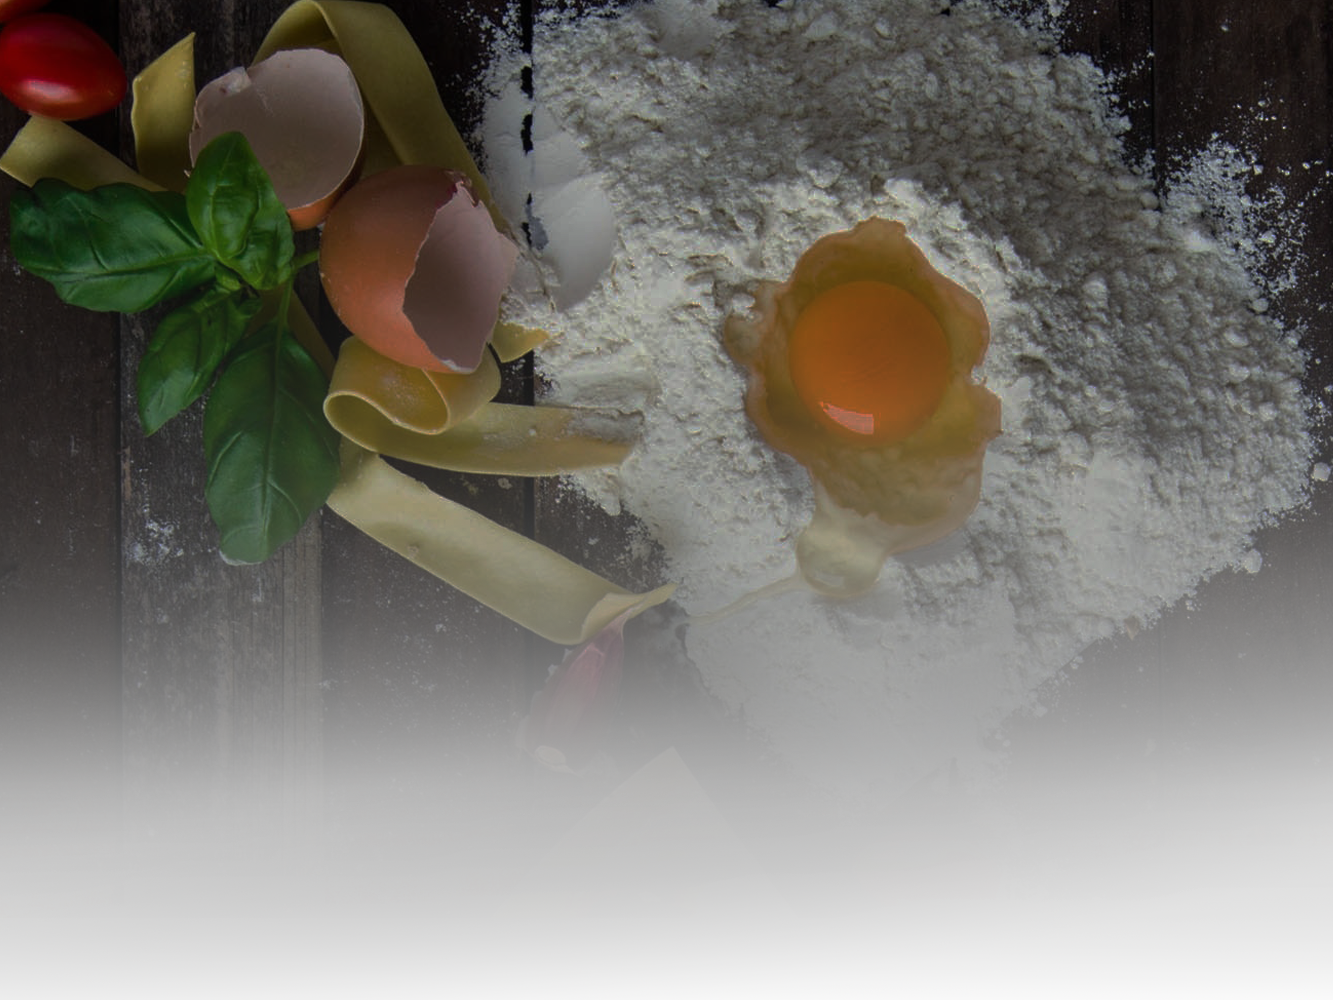
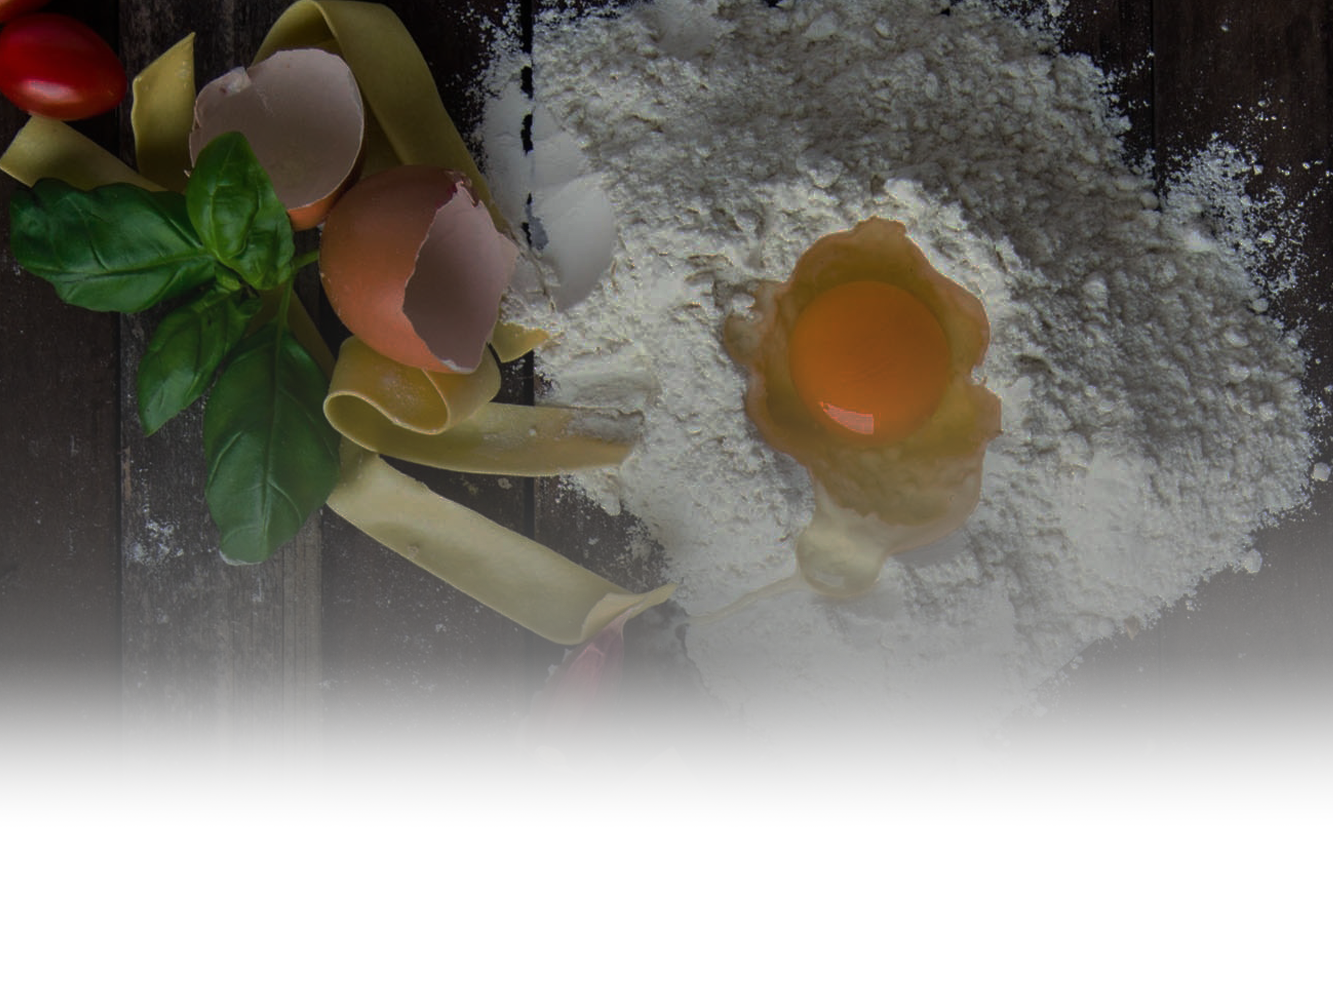
fixing navigation and bg image

Changed region(s): [[0.0, 0.682, 1.0, 0.992]]

diff --git a/index.html b/index.html
@@ -25,31 +25,35 @@
 			</div>
 
     <!-- NAVIGATION-->
-      <div id="mainNavigation" class="navbar-collapse">
-          <ul class="navbar-nav">
-            <a class="navbar-brand" href="index.html" title="Branding"><img src="spaghetti.svg" title="logo" alt="logo">Brand</img></a></img>
-              <li class="navbar-item">
-                  <a class="navbar-link" href="index.html" title="Home">Home</a>
-              </li>
-              <li class="navbar-item">
-                  <a class="navbar-link" href="#" title="Menu">Menu</a>
-              </li>
-              <li class="navbar-item">
-                  <a class="navbar-link" href="catering.html" title="Catering">Catering</a>
-              </li>
-							<li class="navbar-item">
-                  <a class="navbar-link" href="reservation.php" title="Reservation">Online Reservation</a>
-              </li>
-              <li class="navbar-item">
-                  <a class="navbar-link" href="contact.html" title="Contact">Contact</a>
-              </li>
+    <div id="mainNavigation" class="navbar-collapse">
+        <div class="nav">
+
+        <div class="nav-top">
+          <a class="navbar-brand" href="index.html" title="Branding"><img src="spaghetti.svg" title="logo" alt="logo">Brand</img></a></img>
+          <p>Bella Vita II Italian Restaurant & Bar</p>
+          <a class="navbar-brand" href="index.html" title="Branding"><img src="spaghetti.svg" title="logo" alt="logo">Brand</img></a></img>
+        </div>
+
+        <div class="nav-bottom">
+          <ul class="nav-bar">
+            <li><a href="index.html">Home</a></li>
+            <li><a href="#">Menu</a></li>
+            <li><a href="reservation.php">Reservation</a></li>
+            <li><a href="contact.html">Contact</a></li>
           </ul>
         </div>
 
       </div>
     </div>
+
+      </div>
     </header>
+
     <!-- NAVIGATION End -->
+
+    <div class="catering-banner">
+      <p><b>We Cater. </b>Want us to be your personal chef for your special event? Call 817-483-0330.</p>
+    </div>
 
 
     <div class="container-index">

diff --git a/css/styles.css b/css/styles.css
@@ -25,6 +25,20 @@ body{
   padding: 0;
 }
 
+.navbar{
+  margin:0;
+  padding: 0;
+}
+
+.nav{
+  padding:0;
+}
+
+.nav-top p{
+  color: white;
+  font-size: 1.5em;
+}
+
       .navigation{
         color: white;
         padding: 0;
@@ -190,7 +204,7 @@ body{
     -webkit-align-items: space-between;
     align-content: space-between;
 
-  
+
   }
 
   a.navbar-brand{

diff --git a/css/index.css b/css/index.css
@@ -14,6 +14,13 @@ body {
   background-size: contain;
 }
 
+.catering-banner{
+  background-color: #252629;
+  color: white;
+  padding: 1em 0;
+  margin: 0;
+}
+
 .bio {
   display: flex;
   flex-flow: row nowrap;

diff --git a/components.php b/components.php
@@ -19,7 +19,7 @@ function makeHeader ($page) {
 
     <div class="nav-top">
       <a class="navbar-brand" href="index.html" title="Branding"><img src="spaghetti.svg" title="logo" alt="logo">Brand</img></a></img>
-      <p>Bella Vita II Italian Restaurant</p>
+      <p>Bella Vita II Italian Restaurant & Bar</p>
       <img src="" alt="" title="">
     </div>
 
